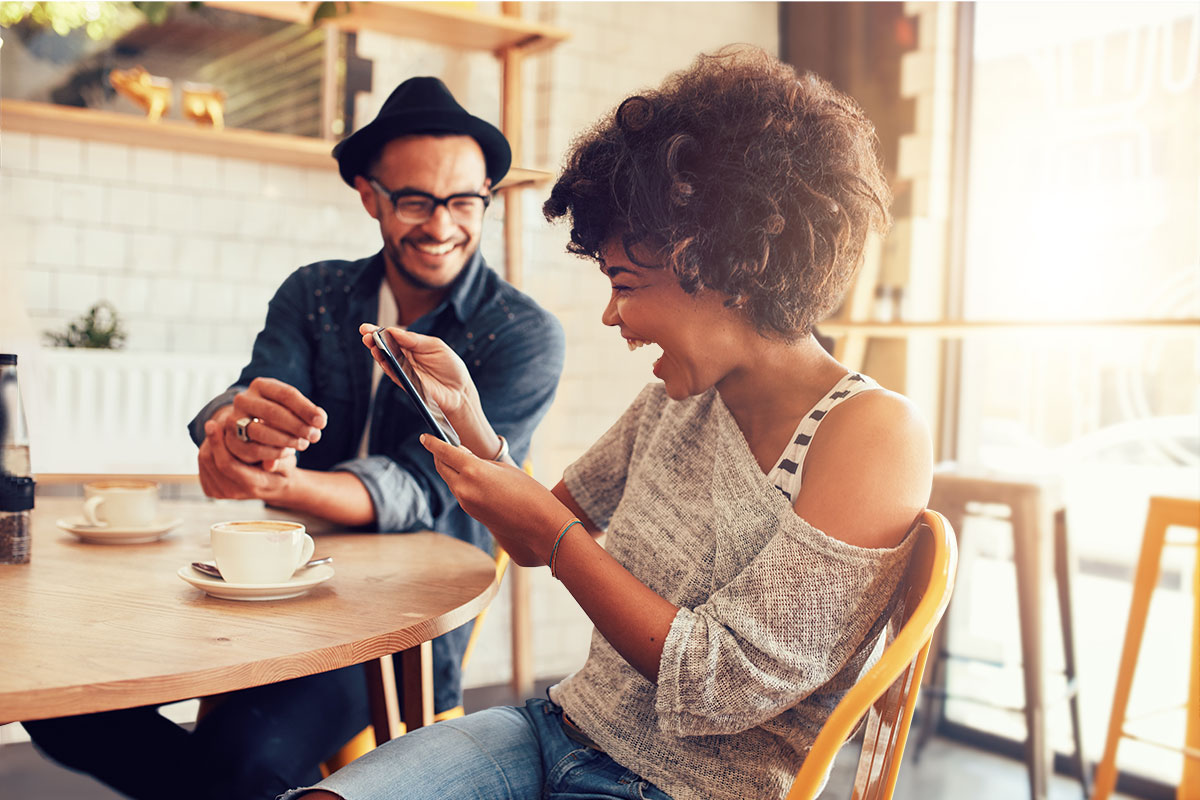
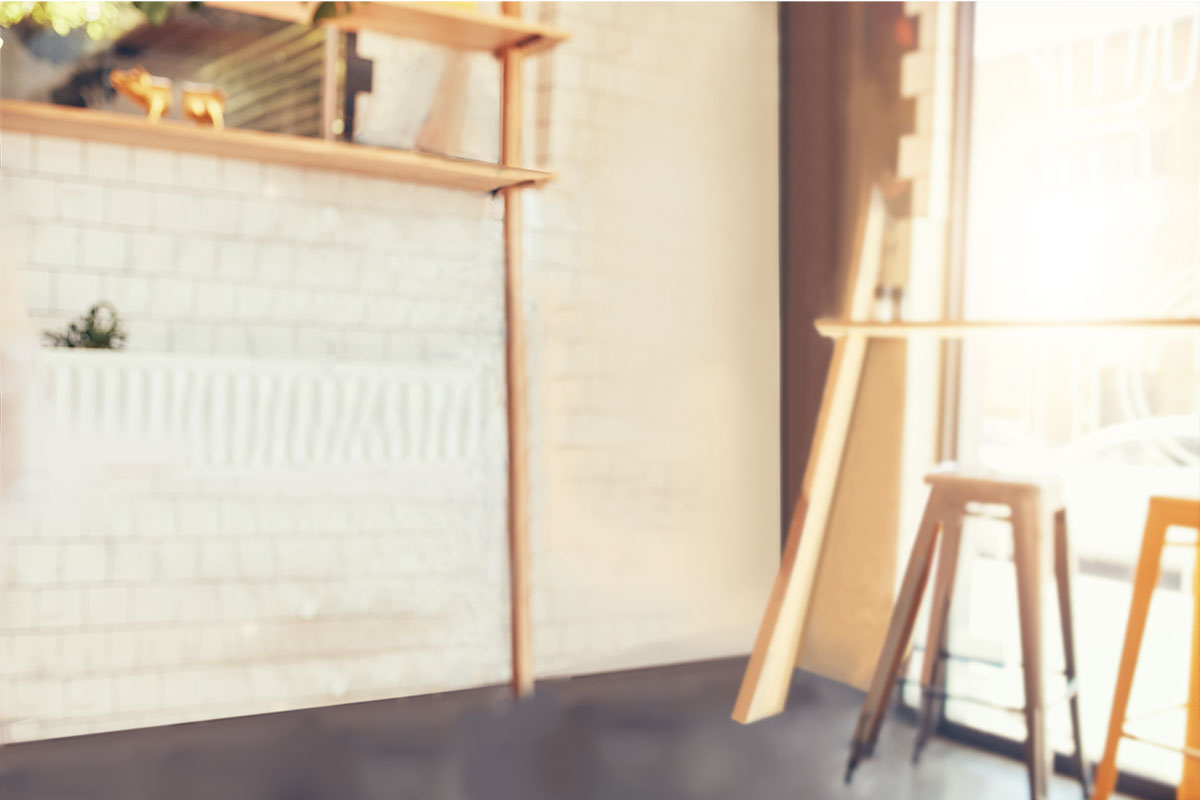
content updates

diff --git a/index.html b/index.html
@@ -77,10 +77,7 @@
                             <div class="col-lg-10 pb-3 pb-lg-5">
                                 <h2 class="main-heading">Discover the Greatest Impact with GEM</h2>
                                 <p class="sub-heading">
-                                    Disrupt the experience industry by integrating the right solutions for your
-                                    brand. Our consultants and data experts complement existing brand systems to
-                                    revolutionize your
-                                    guest experience.
+                                    Disrupt the experience industry by integrating the right solutions for you and your brand. Our consultants and data experts complement existing brand systems to revolutionize your guest experience.
                                 </p>
                             </div>
                         </div>
@@ -93,33 +90,34 @@
         <section id="sales" class="container py-5">
             <div class="row justify-content-center">
                 <div class="col-lg-12">
-                    <div id="results" class="row py-3 justify-content-center">
-                        <div class="col-md-6">
-                            <img src="img/Speed_graphic.svg" alt="results symbol" class="img-fluid" width="384px">
-                        </div>
+                    <div id="results" class="row py-3 justify-content-center">                        
                         <div id="result" class="col-md-6">
                             <h4 class="heading">Deliver better results through accelerated velocity.</h4>
                             <ul class="sale-list">
-                                <li>Integrate customizable technical solutions </li>
+                                <li>Integrate customizable technical solutions</li>
                                 <li>Build greater experiences for guests through data</li>
                                 <li>Transform team operations with a guest experience outlook</li>
                             </ul>
+                        </div>
+                        <div class="col-md-6">
+                            <img src="img/Speed_graphic.svg" alt="results symbol" class="img-fluid" width="384px">
                         </div>
                     </div>
                     <hr>
                     <div id="strategy" class="container py-3">
                         <div class="row">
+                                <div class="col-md-6">
+                                    <img src="img/Strategy_graphic.svg" alt="Strategies Symbol" class="img-fluid" width="389px">
+                                </div>
                             <div class="col-md-6">
                                 <h4 class="heading">Build strategies that work for you and your brand.</h4>
                                 <ul class="sale-list">
                                     <li>Understand your guests on a personal level</li>
-                                    <li>Increase brand lift through optimized</li>
+                                    <li>Increase brand lift through optimized touchpoints</li>
                                     <li>Expand and enhance brand loyalty</li>
                                 </ul>
                             </div>
-                            <div class="col-md-6">
-                                <img src="img/Strategy_graphic.svg" alt="Strategies Symbol" class="img-fluid" width="389px">
-                            </div>
+                            
                         </div>
                     </div>
                 </div>
@@ -145,7 +143,7 @@
 
         </section>
         <!--Solutions-->
-        <section id="solutions" class="py-5">
+        <section id="solutions" class="honeycomb-bg py-5">
             <div class="container text-white">
                 <div class="row">
                     <div class="main-heading col text-center mb-3">
@@ -155,8 +153,7 @@
                 <div class="row">
                     <div class="sub-heading col text-center">
                         <p>
-                            We tailor our services and products to meet your every need, bringing extraordinary
-                            experiences to life.
+                            We tailor our services and products to meet your every need, bringing extraordinary experiences to life.
                         </p>
                     </div>
                 </div>
@@ -230,7 +227,7 @@
                         <div class="footer-heading col mt-5 ml-md-5 media">
                             <img class="mr-3 d-block d-sm-none" src="img/footer-logo.png" alt="footer logo" width="66px">
                             <h5>
-                                Creating lift for brands through integrated guest experience maximization.
+                                Maximize Your Guest Experience
                             </h5>
                         </div>
                     </div>
@@ -253,6 +250,9 @@
                     <div class="row">
                         <div class="col">
                             <ul class="footer-social">
+                                <li>
+                                    <a href=""><i class="fa fa-twitter" aria-hidden="true"></i></a>
+                                </li>
                                 <li>
                                     <a href=""><i class="fa fa-linkedin" aria-hidden="true"></i></a>
                                 </li>

diff --git a/about.html b/about.html
@@ -33,7 +33,7 @@
                         <div class="nav justify-content-end collapse navbar-collapse" id="collapsibleNavId">
                             <ul class="navbar-nav mt-2 mt-lg-0">
                                 <li class="nav-item">
-                                    <a class="nav-link" href="index.html">Home </a>
+                                    <a class="nav-link" href="index.html">Home</a>
                                 </li>
                                 <li class="nav-item active">
                                     <a class="nav-link" href="about.html">About Us<span class="sr-only">(current)</span></a>
@@ -67,7 +67,7 @@
                 <div id="banner-upper" class="container pt-md-5">
                     <div class="row justify-content-center">
                         <div class="col-md-12">
-                            <h2 class="main-heading">Lets Direct Innovation <span>Together</span></h2>
+                            <h2 class="main-heading">Let's Direct Innovation <span>Together</span></h2>
                         </div>
                     </div>
                 </div>
@@ -86,8 +86,7 @@
                                     <p>
                                         Thus GEM was born. With a dedicated operations team of engineering experts,
                                         data analysts, and patent holders in wearable technology, we resolve
-                                        complex issues quickly and smoothly. We’re evolving to become more present by
-                                        building tools to understand and anticipate your guest’s every need.
+                                        complex issues quickly and smoothly. Our aim is to build tools to understand and anticipate your guest’s every need.
                                     </p>
                                 </div>
                             </div>
@@ -154,7 +153,7 @@
                     <div id="leader-info" class="col-md-6 order-2 order-md-1">
                         <h3 class="leadership-name">John Craig</h3>
                         <h5 class="leadership-title">Chief Operations Officer</h5>
-                        <p>John drives creative and logical solutions based on years of experience in driving improved
+                        <p>John drives creative and logical solutions based on years of experience in establishing improved
                             operations.</p>
                     </div>
                     <div class="col-md-6 text-center col-md-6 order-1 order-md-2">
@@ -173,7 +172,7 @@
                         <h3 class="leadership-name">Felix Torres</h3>
                         <h5 class="leadership-title">Chief Technology Officer</h5>
                         <p>Felix delivers technical vision and strategy by overseeing engineering and technical
-                            development.s</p>
+                            development.</p>
                     </div>
                 </div>
             </div>
@@ -206,13 +205,14 @@
                 <div class="row justify-content-end">
                     <div id="work-heading" class="col-lg-4 text-white mx-sm-auto mx-lg-0">
                         <h3>Want to work at GEM?</h3>
-                        <p>Lorem ipsum dolor sit amet, consectetur adipiscing elit.</p>
+                        <p>
+                            We are always looking for new team members to join us at the forefront of innovation.
+                        </p>
                     </div>
                 </div>
                 <div class="row justify-content-end">
                     <div class="col-lg-4 mx-sm-auto mx-lg-0 mt-5 text-right">
-                        <button class="btn btn-outline-light green-btn rounded-0 px-4 py-2">Join the GEM and LMS
-                            family</button>
+                        <button class="btn btn-outline-light green-btn rounded-0 px-4 py-2">Join the GEM team through LMS, Inc</button>
                     </div>
                 </div>
                 <div class="row justify-content-end">
@@ -248,7 +248,7 @@
                         <div class="footer-heading col mt-5 ml-md-5 media">
                             <img class="mr-3 d-block d-sm-none" src="img/footer-logo.png" alt="footer logo" width="66px">
                             <h5>
-                                Creating lift for brands through integrated guest experience maximization.
+                                Maximize Your Guest Experience
                             </h5>
                         </div>
                     </div>
@@ -271,6 +271,9 @@
                     <div class="row">
                         <div class="col">
                             <ul class="footer-social">
+                                <li>
+                                    <a href=""><i class="fa fa-twitter" aria-hidden="true"></i></a>
+                                </li>
                                 <li>
                                     <a href=""><i class="fa fa-linkedin" aria-hidden="true"></i></a>
                                 </li>

diff --git a/products.html b/products.html
@@ -80,14 +80,7 @@
                                 </h2>
                                 <div class="sub-heading">
                                     <p>
-                                        In collaboration with one of the world’s largest cruise brands, we developed
-                                        processes and services to drive improvement in experience operations.
-                                    </p>
-                                    <p>
-                                        Thus GEM was born. With a dedicated operations team of engineering experts,
-                                        data analysts, and patent holders in wearable technology, we resolve complex
-                                        issues quickly and smoothly. We’re evolving to become more present by building
-                                        tools to understand and anticipate your guest’s every need.
+                                        GEM digs into challenges to find answers while establishing methods that speed up results, ultimately creating brand lift. Our customer experience engines were created with the guest in mind.
                                     </p>
                                 </div>
                             </div>
@@ -211,7 +204,7 @@
                         <div class="footer-heading col mt-5 ml-md-5 media">
                             <img class="mr-3 d-block d-sm-none" src="img/footer-logo.png" alt="footer logo" width="66px">
                             <h5>
-                                Creating lift for brands through integrated guest experience maximization.
+                                Maximize Your Guest Experience
                             </h5>
                         </div>
                     </div>
@@ -234,6 +227,9 @@
                     <div class="row">
                         <div class="col">
                             <ul class="footer-social">
+                                <li>
+                                    <a href=""><i class="fa fa-twitter" aria-hidden="true"></i></a>
+                                </li>
                                 <li>
                                     <a href=""><i class="fa fa-linkedin" aria-hidden="true"></i></a>
                                 </li>

diff --git a/css/style.css b/css/style.css
@@ -10,7 +10,7 @@
 
 body {
     font-family: 'SourceSansPro-Regular', 'Source Sans Pro' !important;
-    background: rgb(var(--bg-color));
+    background: rgb(var(--dark-green));
 }
 
 p {
@@ -85,7 +85,9 @@ main,
 section {
     position: relative;
 }
-
+main{
+    background: rgb(var(--bg-color));
+}
 main::after {
     content: "";
     width: 54em;
@@ -291,7 +293,7 @@ main::after {
 }
 
 #services .banner-layer3 {
-    background: url(../img/Banner_Services_girl.png) no-repeat;
+    background: url(../img/Banner_Services_couple.png) no-repeat;
     position: absolute;
     bottom: 0px;
     height: 100%;
@@ -631,7 +633,6 @@ main::after {
     left: 0;
     bottom: 0;
     right: 0;
-    z-index: -2;
 }
 
 .honeycomb-bg::after {
@@ -643,11 +644,11 @@ main::after {
     bottom: 0;
     right: 0;
     position: absolute;
-    z-index: -1;
 }
 
 #leadership hr {
     border: 1px solid;
+    position: relative
 }
 
 #leadership img {
@@ -673,29 +674,6 @@ main::after {
 
 #solutions {
     position: relative;
-}
-
-#solutions::before {
-    content: "";
-    background-color: rgb(var(--dark-gray));
-    top: 0;
-    left: 0;
-    bottom: 0;
-    right: 0;
-    position: absolute;
-    z-index: -2;
-}
-
-#solutions::after {
-    content: "";
-    background-image: url(../img/honeycomb_pattern.svg);
-    opacity: 0.05;
-    top: 0;
-    left: 0;
-    bottom: 0;
-    right: 0;
-    position: absolute;
-    z-index: -1;
 }
 
 #solutions .sub-heading p {
@@ -814,6 +792,7 @@ footer .legal p {
         height: 54px;
         position: absolute;
         left: -4em;
+        top: -1em;
     }
 }
 
@@ -971,7 +950,7 @@ footer .legal p {
     }
 
     #services .banner-layer3 {
-        background-position: 100% 13%;
+        background-position: 0% 13%;
 
     }
 }

diff --git a/services.html b/services.html
@@ -60,12 +60,13 @@
         <section class="banner text-white">
             <div class="banner-main"></div>
             <div class="banner-layer2"></div>
+            <div class="banner-layer3"></div>
             <div class="banner-gradient"></div>
             <div class="container-fluid">
                 <div id="banner-upper" class="container justify-content-center pt-md-5">
                     <div class="row">
                         <div class="col-md-10 pt-5 pt-md-0">
-                            <h2 class="main-heading">Make Your Innovations <span>Reality</span></h2>
+                            <h2 class="main-heading">Make Your Innovations a <span>Reality</span></h2>
                         </div>
                     </div>
                 </div>
@@ -189,7 +190,7 @@
                         <div class="footer-heading col mt-5 ml-md-5 media">
                             <img class="mr-3 d-block d-sm-none" src="img/footer-logo.png" alt="footer logo" width="66px">
                             <h5>
-                                Creating lift for brands through integrated guest experience maximization.
+                                Maximize Your Guest Experience
                             </h5>
                         </div>
                     </div>
